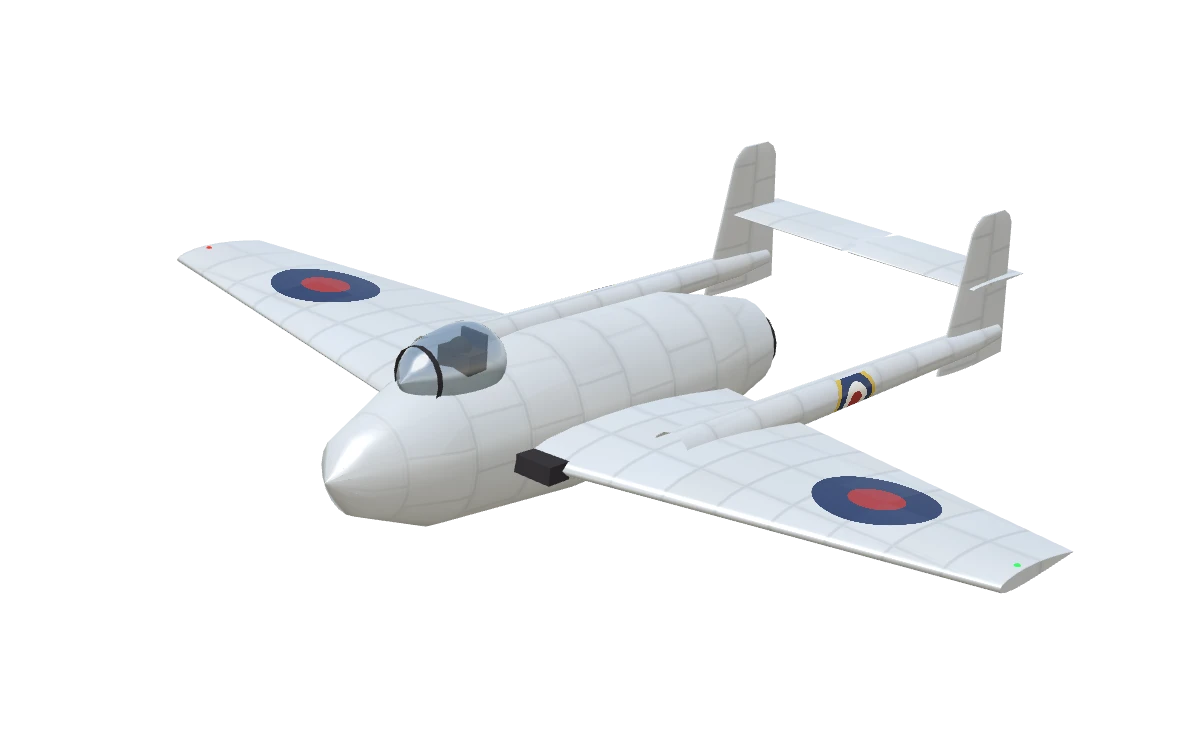
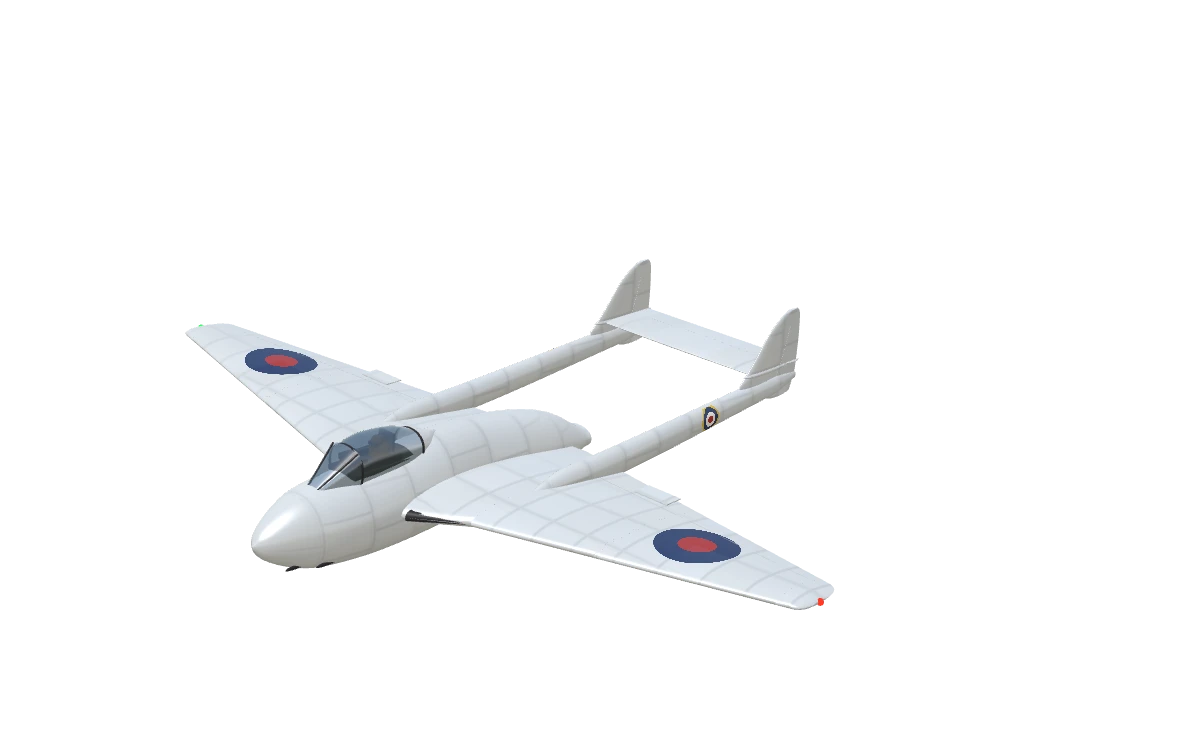
Vampire ayrıntılı model: üç görünüş çiziminden gövde kapsülü, kuyruk kirişleri, ikiz kuyruk, kök hava girişleri
- jetFin yana kayık kurulabilir, ikinci dümen eklemi rudderR; arma kuyruk kirişine oturabilir (markY)
- Ana takım gerçeğindeki gibi dışa, kanadın içine katlanır (main.out); dalış frenleri kanat üstünde
- gearHeight çizime göre; ansiklopedi görselleri yenilendi

Changed region(s): [[0.1542, 0.184, 0.8942, 0.828]]

diff --git a/src/render/models.ts b/src/render/models.ts
@@ -21,7 +21,7 @@ type Geo = THREE.BufferGeometry;
 let DETAIL = 1;
 /** Yüksek ayrıntıda ek çözünürlük çarpanı (videosu çekilen uçaklarda daha çok kenar ve profil noktası). */
 let RES = 1;
-const HIRES: Record<string, number> = { mig15: 2.4, sabre: 1.6, f84: 1.6, p80: 1.6, me262: 1.6, meteor: 1.6 };
+const HIRES: Record<string, number> = { mig15: 2.4, sabre: 1.6, f84: 1.6, p80: 1.6, me262: 1.6, meteor: 1.6, vampire: 1.6 };
 /** Dönel parçaların kenar sayısı ayrıntıya göre. */
 const sg = (n: number) => (DETAIL ? Math.round(n * 2.25 * RES) : n);
 
@@ -594,7 +594,7 @@ function controlFin(f: Fin, xh: number, k0: number, k1: number): Geo[] {
  * Çizimden alınan dikey kuyruk (ortada, tek): yükseklik başına [y, hücum kenarı z, veter], alttan üste (ilk kesit
  * gövdeye gömülü). [i0, i1] kesitleri arasında veterin xh'tan arkası 'rudder' eklemi. Kalınlık tepeye doğru incelir.
  */
-function jetFin(raw: [number, number, number][], t: number, xh: number, r0: number, r1: number): Geo[] {
+function jetFin(raw: [number, number, number][], t: number, xh: number, r0: number, r1: number, x = 0, rudder = 'rudder'): Geo[] {
   const side = new THREE.Vector3(1, 0, 0);
   // Yüksek ayrıntıda kesitler yumuşar (kenar köşeli kalmasın); dümen sınırları en yakın kesite
   const list = (DETAIL ? chaikinN(raw, 2) : raw) as [number, number, number][];
@@ -604,8 +604,8 @@ function jetFin(raw: [number, number, number][], t: number, xh: number, r0: numb
   const y0 = list[0][0];
   const top = list[list.length - 1];
   const mid = list[Math.floor(list.length / 2)];
-  finSink.push({ x: 0, yTop: top[0], yRoot: list[1][0], zTop: top[1] - top[2] * 0.35, zMid: mid[1] - mid[2] * 0.5, chordMid: mid[2] });
-  const secs: Section[] = list.map(([y, le, c]) => ({ le: new THREE.Vector3(0, y, le), c, t: t * (1 - (0.6 * (y - y0)) / (top[0] - y0)) }));
+  finSink.push({ x, yTop: top[0], yRoot: list[1][0], zTop: top[1] - top[2] * 0.35, zMid: mid[1] - mid[2] * 0.5, chordMid: mid[2] });
+  const secs: Section[] = list.map(([y, le, c]) => ({ le: new THREE.Vector3(x, y, le), c, t: t * (1 - (0.6 * (y - y0)) / (top[0] - y0)) }));
   const span = secs.slice(i0, i1 + 1);
   const h0 = chordPt(secs[i0], side, xh + HINGE_GAP);
   const ax = chordPt(secs[i1], side, xh + HINGE_GAP).sub(h0);
@@ -613,7 +613,7 @@ function jetFin(raw: [number, number, number][], t: number, xh: number, r0: numb
     airfoilPart(secs.slice(0, i0 + 1), side, 0, 1),
     airfoilPart(span, side, 0, xh),
     hingeStrip(span, side, xh),
-    ...joint('rudder', [h0.x, h0.y, h0.z], [airfoilPart(span, side, xh + HINGE_GAP, 1)], true, [ax.x, ax.y, ax.z]),
+    ...joint(rudder, [h0.x, h0.y, h0.z], [airfoilPart(span, side, xh + HINGE_GAP, 1)], true, [ax.x, ax.y, ax.z]),
     airfoilPart(secs.slice(i1), side, 0, 1),
   ];
 }
@@ -1024,8 +1024,8 @@ function gearDoor(x: number, yTop: number, yBot: number, z: number, w: number, r
 }
 
 interface JetGearOpts {
-  /** Ana bacak: x, z, üst ucu (menteşe) y, aks y, tekerlek yarıçapı ve genişliği, tekerleğin bacağa göre içe kayması. */
-  main: { x: number; z: number; top: number; axle: number; rw: number; tw: number; dx: number; door: { dx: number; top: number; bot: number; w: number; r: number } };
+  /** Ana bacak: x, z, üst ucu (menteşe) y, aks y, tekerlek yarıçapı ve genişliği, tekerleğin bacağa göre içe kayması; out: dışa katlanır. */
+  main: { out?: boolean; x: number; z: number; top: number; axle: number; rw: number; tw: number; dx: number; door: { dx: number; top: number; bot: number; w: number; r: number } };
   /** Burun bacağı: menteşe (üst uç) y ve z, aks y ve z, tekerlek; öne bakan küçük kapak (varsa). */
   nose: { topY: number; topZ: number; axle: number; z: number; rw: number; tw: number; door?: { top: number; bot: number; w: number } };
   /** Burun takımı yuvasının boyuna iki kapağı: menteşe x'i ve y'si, z aralığı, yükseklik. */
@@ -1054,7 +1054,7 @@ function jetGear(o: JetGearOpts): Geo[] {
       ...wheelParts(m.rw, m.tw, x - s * m.dx, m.axle, m.z),
     ];
     const door = gearDoor(x + s * m.door.dx, m.door.top, m.door.bot, m.z, m.door.w, m.door.r);
-    out.push(...joint(s > 0 ? 'takimL' : 'takimR', [x, m.top, m.z], [...parts.map((g) => tag(g, 'dark')), door], false, [0, 0, 1]));
+    out.push(...joint(s > 0 ? 'takimL' : 'takimR', [x, m.top, m.z], [...parts.map((g) => tag(g, 'dark')), door], false, [0, 0, m.out ? -1 : 1]));
   }
   // Burun bacağı: üst ucu arkada, tekerlek önde (eğik); menteşe ekseni −x: pozitif açı tekerleği arkaya toplar
   const top = v(0, n.topY, n.topZ);
@@ -1127,6 +1127,15 @@ function meteorGear(gh: number): Geo[] {
     main: { x: 1.57, z: 0, top: -0.4, axle: -gh + 0.39, rw: 0.39, tw: 0.2, dx: 0.04, door: { dx: 0.11, top: -0.46, bot: -1.14, w: 0.52, r: 0.12 } },
     nose: { topY: -0.5, topZ: 3.75, axle: -gh + 0.31, z: 3.97, rw: 0.31, tw: 0.15 },
     belly: { x: 0.26, y: -0.58, z0: 3.7, z1: 2.6, h: 0.26 },
+  });
+}
+
+/** Vampire takımı: kısa, ana bacaklar kirişlerin hemen dışında ve dışa, kanadın içine katlanır; burun tekerleği çok önde. */
+function vampireGear(gh: number): Geo[] {
+  return jetGear({
+    main: { out: true, x: 1.72, z: -0.06, top: -0.02, axle: -gh + 0.335, rw: 0.335, tw: 0.15, dx: 0.04, door: { dx: 0.1, top: -0.05, bot: -0.7, w: 0.4, r: 0.1 } },
+    nose: { topY: -0.42, topZ: 3.05, axle: -gh + 0.216, z: 3.38, rw: 0.216, tw: 0.12 },
+    belly: { x: 0.24, y: -0.52, z0: 2.9, z1: 2.0, h: 0.22 },
   });
 }
 
@@ -1227,6 +1236,8 @@ interface ModelDef {
   props: PropDef[];
   /** Gövde yanı armasının z'si (yoksa arka gövdede, bel penceresi gibi parçalarla çakışıyorsa verilir). */
   markZ?: number;
+  /** Arma gövdede değil de yandaki kirişteyse kirişin o z'deki yüksekliği. */
+  markY?: number;
   bombs?: Geo[];
   rockets?: Geo[];
   tank?: Geo[];
@@ -2236,22 +2247,70 @@ function defineModel(key: string): ModelDef {
       };
     }
     case 'vampire': {
-      const bx = 1.75;
+      // Vampire FB.5, ölçüler üç görünüş çiziminden. Kısa, yumurta gövde kapsülü: kanopinin arkasında kambur, sonda kısa
+      // egzoz. Kanat kökünde hücum kenarındaki hava girişleri, burnun altında dört 20 mm ağzı. Kanadın içinden çıkan
+      // iki ince kuyruk kirişi yukarı eğimli; uçlarında yuvarlak ikiz dikey kuyruk, aralarında tek parça yatay kuyruk.
+      const H = new JetHull([
+        [3.7, 0.01, 0.0, -0.04, -0.02], [3.56, 0.22, 0.2, -0.24, -0.03], [3.08, 0.46, 0.48, -0.48, -0.05], [2.68, 0.58, 0.56, -0.54, -0.06], [1.8, 0.62, 0.64, -0.6, -0.06],
+        [0.52, 0.53, 0.8, -0.56, -0.02], [-0.6, 0.53, 0.72, -0.46, 0], [-1.64, 0.5, 0.48, -0.32, -0.03], [-2.24, 0.27, 0.08, -0.25, -0.09], [-2.35, 0.26, 0.07, -0.25, -0.09],
+      ], 2.1);
+      const W: WingOpts = { x0: 1.42, z: 1.32, root: 2.84, y: 0.1, tipX: 5.79, tip: 0.86, sweep: 0.88, dihedral: 3.9, t: 0.3 };
+      const T: WingOpts = { x0: 0, z: -4.51, root: 1.16, y: 0.8, tipX: 1.5, tip: 1.16, sweep: 0, dihedral: 0, t: 0.12 };
+      const tipY = W.y + (W.tipX - W.x0) * tanD(W.dihedral);
+      const up = new THREE.Vector3(0, 1, 0);
+      const pipe = new JetHull([[-2.34, 0.24, 0.05, -0.23, -0.09], [-1.85, 0.21, 0.03, -0.2, -0.09]], 2.05, false);
+      const boom = new JetHull([[0.44, 0.01, 0.2, 0.16, 0.18], [-0.2, 0.14, 0.42, 0.04, 0.22], [-0.6, 0.16, 0.44, 0.04, 0.24], [-1.64, 0.15, 0.48, 0.03, 0.26], [-4.92, 0.11, 0.68, 0.34, 0.51], [-5.16, 0.11, 0.68, 0.36, 0.52], [-5.67, 0.02, 0.6, 0.5, 0.55]], 2.05);
+      const FIN: [number, number, number][] = [[0.32, -4.96, 0.6], [0.6, -4.12, 1.54], [0.84, -4.4, 1.26], [1.16, -4.67, 0.99], [1.4, -4.86, 0.78], [1.6, -5.12, 0.5], [1.68, -5.32, 0.22]];
       return {
         solids: [
-          // Kısa gövde kapsülü: kokpit önde, motor arkada
-          body([[3.6, 0], [3.3, 0.38], [2.4, 0.7], [0.5, 0.82], [-1.6, 0.78], [-2.6, 0.55], [-2.9, 0.48]], 9, { sy: 1.1 }),
-          tag(body([[-2.85, 0.45], [-3.05, 0.4]], 8), 'dark'),
-          canopy(1.9, 1.5, 0.45, 0.8, 0.42, true),
-          // Kanat kökü hava alıkları
-          ...mirror(0.95, (x) => tag(box(0.5, 0.2, 0.3, x, -0.05, 1.55), 'dark')),
-          ...wing({ x0: 0.7, z: 1.6, root: 3.3, y: -0.05, tipX: 5.79, tip: 1.3, sweep: 0.9, dihedral: 2, t: 0.36 }),
-          // İnce kuyruk kirişleri
-          ...mirror(bx, (x) => body([[0.5, 0.25], [-1.0, 0.22], [-5.0, 0.16], [-5.6, 0.1]], 6, { x, y: 0.05 })),
-          ...fins({ x: bx, y0: 0.0, z0: -4.4, h: 1.6, root: 1.4, tip: 0.8, sweep: 0.4, t: 0.1 }),
-          ...wing({ x0: 0.05, z: -4.8, root: 1.1, y: 0.75, tipX: bx + 0.1, tip: 1.1, sweep: 0, dihedral: 0, t: 0.1 }),
+          H.geo(13),
+          tag(pipe.geo(12), 'dark'),
+          tag(pipe.disc(-1.85, -1, 12), 'dark'),
+          tag(new THREE.ConeGeometry(0.1, 0.26, sg(8)).rotateX(-Math.PI / 2).translate(0, -0.09, -2.0), 'dark'),
+          ...[1, -1].flatMap((sd) => [[-0.34, 2.85], [-0.34, 3.2]].map(([y, z]) => portAt(sd * H.sideX(z, y), y, z, 0.03, 0.19))),
+          tag(H.patch(1, 2.15, 1.25, Math.PI / 2 - 0.4, Math.PI / 2 + 0.4, 0.006), 'dark'),
+          ...jetCanopy({
+            screen: [[2.8, 0.12, 0.5, 0.25, 0.46], [2.2, 0.31, 0.96, 0.25, 0.68]],
+            glass: [[2.2, 0.31, 0.96, 0.25, 0.68], [1.96, 0.32, 1.06, 0.25, 0.7], [1.4, 0.32, 1.02, 0.25, 0.7], [1.08, 0.26, 0.9, 0.25, 0.7]],
+            aft: [[1.1, 0.27, 0.91, 0.25, 0.7], [0.9, 0.2, 0.84, 0.3, 0.68], [0.65, 0.05, 0.775, 0.4, 0.66]],
+            frames: [2.2, 1.1],
+            posts: [[0.08, 0.5, 2.78], [0.24, 0.93, 2.22]],
+            pilot: { z: 1.75, len: 1.5, h: 0.36, y: 0.72, w: 0.31 },
+          }),
+          // Kök parça (gövdeden kirişe) öne doğru genişler, hücum kenarında koyu hava girişi; dışında flap ve kanatçık
+          ...[1, -1].flatMap((sd) => [
+            airfoilPart([
+              { le: new THREE.Vector3(sd * 0.35, 0.04, 1.8), c: 3.5, t: 0.42 },
+              { le: new THREE.Vector3(sd * 0.72, 0.06, 1.75), c: 3.45, t: 0.4 },
+              { le: new THREE.Vector3(sd * W.x0, W.y, W.z), c: W.root, t: W.t },
+            ], up, 0, 1),
+            tag(airfoilPart([
+              { le: new THREE.Vector3(sd * 0.68, 0.055, 1.775), c: 0.3, t: 0.15 },
+              { le: new THREE.Vector3(sd * 1.36, 0.095, 1.355), c: 0.2, t: 0.05 },
+            ], up, 0, 1), 'dark'),
+          ]),
+          ...controlWing(W, 0.8, [[0, 0.41, 'flap'], [0.41, 0.42, null], [0.42, 0.96, 'aileron'], [0.96, 1, null]], 3),
+          // Dalış frenleri: dış kanat üstünde, arka kenarından menteşeli, ön kenarı kalkar
+          ...[1, -1].flatMap((sd) => [
+            tag(new THREE.BoxGeometry(0.5, 0.008, 0.26).translate(sd * 2.72, 0.325, -0.86), 'dark'),
+            ...joint(sd > 0 ? 'airbrakeL' : 'airbrakeR', [sd * 2.72, 0.335, -1.01], [new THREE.BoxGeometry(0.55, 0.014, 0.3).translate(sd * 2.72, 0.335, -0.86)], false, [sd, 0, 0]),
+          ]),
+          ...[1, -1].map((sd) => boom.geo(9).translate(sd * 1.5, 0, 0)),
+          ...jetFin(FIN, 0.11, 0.62, 1, 4, 1.5, 'rudder'),
+          ...jetFin(FIN, 0.11, 0.62, 1, 4, -1.5, 'rudderR'),
+          ...controlWing(T, 0.61, [[0, 0.96, 'elevator'], [0.96, 1.03, null]]),
+          ...mirror(1.5, (x) => body([[-4.32, 0.01], [-4.5, 0.07], [-5.1, 0.07], [-5.72, 0.01]], 7, { x, y: 0.8, sy: 0.7, smooth: true })),
         ],
         props: [],
+        markZ: -3.4,
+        markY: 0.41,
+        lights: [
+          { p: [W.tipX + 0.17, tipY, W.z - W.sweep - W.tip * 0.45], kind: 'red' },
+          { p: [-W.tipX - 0.17, tipY, W.z - W.sweep - W.tip * 0.45], kind: 'green' },
+          { p: [1.5, 1.1, -5.68], kind: 'white' },
+          { p: [-1.5, 1.1, -5.68], kind: 'white' },
+          { p: [0.95, -0.12, 1.1], kind: 'landing' },
+        ],
       };
     }
     case 'ar234':
@@ -2471,7 +2530,7 @@ function rod(a: THREE.Vector3, b: THREE.Vector3, r: number, seg = 5): Geo {
 }
 
 /** Arma yerleri: kanat üstü (alt yüzde de çizilir), gövde yanları, ortadaki dikey kuyruğun iki yüzü. */
-function markSpots(probe: Probe, bb: THREE.Box3, fins: FinRec[], markZ?: number): (MarkSpot & { fin?: boolean })[] {
+function markSpots(probe: Probe, bb: THREE.Box3, fins: FinRec[], markZ?: number, markY?: number): (MarkSpot & { fin?: boolean })[] {
   const out: (MarkSpot & { fin?: boolean })[] = [];
   const half = bb.max.x;
   const x = half * 0.68;
@@ -2494,13 +2553,13 @@ function markSpots(probe: Probe, bb: THREE.Box3, fins: FinRec[], markZ?: number)
   }
   // Gövde yanı: arka gövdede
   const zf = markZ ?? bb.min.z * 0.42;
-  const sh = probe.side(0.05, zf);
+  const sh = probe.side(markY ?? 0.05, zf);
   if (sh && sh.face && sh.point.x > 0.2) {
     const top = probe.vertical(0, zf, true);
     const bot = probe.vertical(0, zf, false);
     const hgt = top && bot ? top.point.y - bot.point.y : 1;
-    const r = Math.min(hgt * 0.3, 0.75);
-    const yc = top && bot ? (top.point.y + bot.point.y) / 2 : 0;
+    const r = markY !== undefined ? 0.2 : Math.min(hgt * 0.3, 0.75);
+    const yc = markY ?? (top && bot ? (top.point.y + bot.point.y) / 2 : 0);
     const hit = probe.side(yc, zf);
     if (hit && hit.face) {
       for (const s of [1, -1]) {
@@ -2554,6 +2613,7 @@ function landingGear(probe: Probe, bb: THREE.Box3, spec: AircraftSpec | undefine
   if (kind === 'p80') return shootingStarGear(gearHeight(spec));
   if (kind === 'me262') return schwalbeGear(gearHeight(spec));
   if (kind === 'meteor') return meteorGear(gearHeight(spec));
+  if (kind === 'vampire') return vampireGear(gearHeight(spec));
   const gh = spec.span > 25 ? 3.4 : spec.engines > 1 ? 2.6 : 1.9;
   const half = bb.max.x;
   const tricycle = !spec.tailDragger;
@@ -2823,7 +2883,7 @@ function cached(kind: string, detail: number): CachedModel {
   const extra = detail ? smallParts(probe, bb, spec, def, canopies, finRecs) : { dark: [], pilot: [], navRed: [], navGreen: [] };
   const info: SkinInfo = {
     livery: LIVERIES[kind] ?? FALLBACK_LIVERY, noseZ: bb.max.z, span: bb.max.x * 2, soot: ex.soot,
-    marks: markSpots(probe, bb, finRecs, def.markZ), nation: nationOf(spec?.origin),
+    marks: markSpots(probe, bb, finRecs, def.markZ, def.markY), nation: nationOf(spec?.origin),
   };
   // Katlanır takımın bacakları ve hava frenleri eklem olur
   const gearAll = landingGear(probe, bb, spec, kind);

diff --git a/src/sim/aircraft/flightModel.ts b/src/sim/aircraft/flightModel.ts
@@ -79,6 +79,7 @@ export function gearHeight(spec: AircraftSpec): number {
   if (spec.id === 'f80c') return 1.45;
   if (spec.id === 'me262') return 1.88;
   if (spec.id === 'meteor3') return 1.62;
+  if (spec.id === 'vampire') return 1.2;
   return spec.span > 25 ? 3.4 : spec.engines > 1 ? 2.6 : 1.9;
 }
 

diff --git a/src/render/gameRenderer.ts b/src/render/gameRenderer.ts
@@ -581,6 +581,7 @@ export class GameRenderer {
     hinge(j.flapL, -s.flap);
     hinge(j.flapR, -s.flap);
     hinge(j.rudder, s.rud);
+    hinge(j.rudderR, s.rud);
     hinge(j.airbrakeL, -s.brake);
     hinge(j.airbrakeR, s.brake);
     const up = (1 - s.gear) * (Math.PI / 2);
